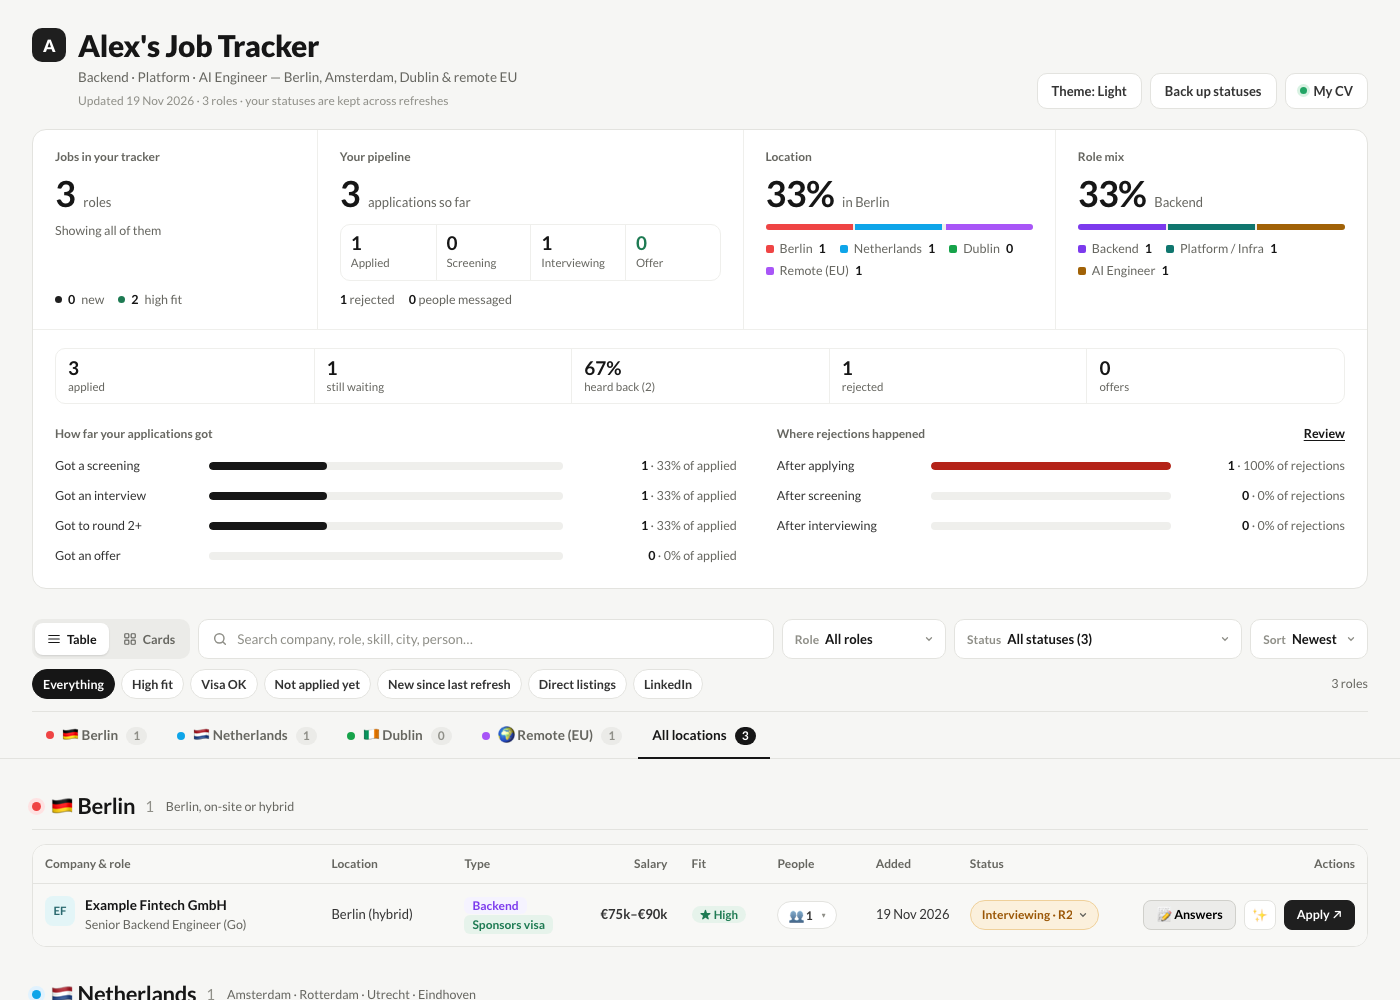
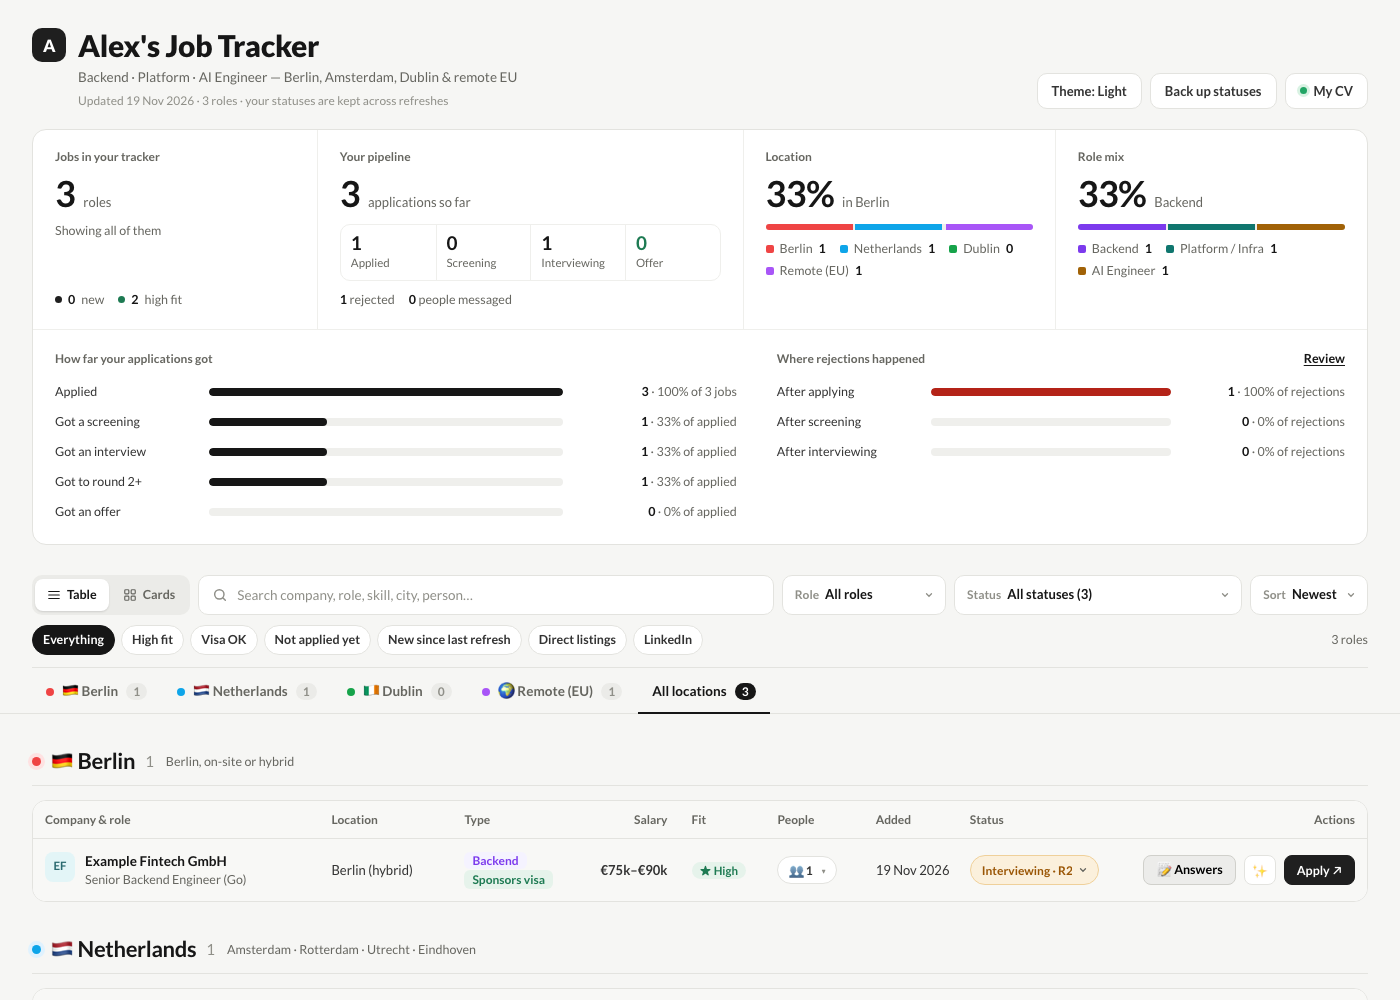
Outcomes: drop the summary strip, add Applied as a share of all jobs

diff --git a/examples/Example_Job_Tracker.html b/examples/Example_Job_Tracker.html
@@ -653,7 +653,6 @@ html.dark .cvwrap{border-color:var(--line-strong)}
     <div class="lg" id="lgCat"></div>
   </div>
   <div class="dc dc-wide hidden" id="dcOut">
-    <div class="oc-sum" id="ocSum"></div>
     <div>
       <div class="oc-h"><span class="dc-k">How far your applications got</span></div>
       <div class="oc-rows" id="ocFunnel"></div>
@@ -2032,11 +2031,9 @@ function render(){
 }
 function updateOutcomes(){
   var box = document.getElementById('dcOut'); if(!box) return;
-  var reach = [0, 0, 0, 0], rej = {Applied:0, Screening:0, Interviewing:0, Offer:0}, unk = 0, rejTot = 0, r2 = 0, rejR = {}, waiting = 0, heard = 0;
+  var reach = [0, 0, 0, 0], rej = {Applied:0, Screening:0, Interviewing:0, Offer:0}, unk = 0, rejTot = 0, r2 = 0, rejR = {};
   JOBS.forEach(function(j){
     var st = getStatus(j), n = furthestN(j), mr = maxRound(j);
-    if(st === 'Applied') waiting++;
-    if(n >= 2 || st === 'Rejected') heard++;
     if(st === 'Rejected'){ rejTot++; if(n) rej[STAGES[n - 1]]++; else unk++; if(!n) n = 1;
       if(n === 3){ var rk = Math.max(1, mr); rejR[rk] = (rejR[rk] || 0) + 1; } }
     for(var k = 0; k < n; k++) reach[k]++;
@@ -2047,16 +2044,12 @@ function updateOutcomes(){
   function row(lab, v, of, cls){ var pc = of ? Math.round(v / of * 100) : 0;
     return '<div class="oc-r"><span>' + lab + '</span><span class="oc-bar' + (cls ? ' ' + cls : '') + '"><i style="width:' + pc + '%"></i></span><span class="oc-n"><b>' + v + '</b> · ' + pc + '%</span></div>'; }
   function pct(v, of){ return of ? Math.round(v / of * 100) + '%' : '—'; }
-  document.getElementById('ocSum').innerHTML =
-    '<div><b>' + reach[0] + '</b><span>applied</span></div>' +
-    '<div><b>' + waiting + '</b><span>still waiting</span></div>' +
-    '<div><b>' + pct(heard, reach[0]) + '</b><span>heard back (' + heard + ')</span></div>' +
-    '<div><b>' + rejTot + '</b><span>rejected</span></div>' +
-    '<div><b>' + reach[3] + '</b><span>offers</span></div>';
   // every step as a share of all applications
   function step(lab, v, of, ofLab, cls){ var pc = of ? v / of * 100 : 0;
     return '<div class="oc-r"><span>' + lab + '</span><span class="oc-bar' + (cls ? ' ' + cls : '') + '"><i style="width:' + (v ? Math.max(pc, 1.5) : 0) + '%"></i></span><span class="oc-n"><b>' + v + '</b> · ' + pct(v, of) + ' of ' + ofLab + '</span></div>'; }
+  var jobsN = JOBS.length;
   document.getElementById('ocFunnel').innerHTML =
+    step('Applied', reach[0], jobsN, jobsN + ' jobs') +
     step('Got a screening', reach[1], reach[0], 'applied') +
     step('Got an interview', reach[2], reach[0], 'applied') +
     (r2 ? step('Got to round 2+', r2, reach[0], 'applied') : '') +

diff --git a/template/tracker.html b/template/tracker.html
@@ -653,7 +653,6 @@ html.dark .cvwrap{border-color:var(--line-strong)}
     <div class="lg" id="lgCat"></div>
   </div>
   <div class="dc dc-wide hidden" id="dcOut">
-    <div class="oc-sum" id="ocSum"></div>
     <div>
       <div class="oc-h"><span class="dc-k">How far your applications got</span></div>
       <div class="oc-rows" id="ocFunnel"></div>
@@ -2027,11 +2026,9 @@ function render(){
 }
 function updateOutcomes(){
   var box = document.getElementById('dcOut'); if(!box) return;
-  var reach = [0, 0, 0, 0], rej = {Applied:0, Screening:0, Interviewing:0, Offer:0}, unk = 0, rejTot = 0, r2 = 0, rejR = {}, waiting = 0, heard = 0;
+  var reach = [0, 0, 0, 0], rej = {Applied:0, Screening:0, Interviewing:0, Offer:0}, unk = 0, rejTot = 0, r2 = 0, rejR = {};
   JOBS.forEach(function(j){
     var st = getStatus(j), n = furthestN(j), mr = maxRound(j);
-    if(st === 'Applied') waiting++;
-    if(n >= 2 || st === 'Rejected') heard++;
     if(st === 'Rejected'){ rejTot++; if(n) rej[STAGES[n - 1]]++; else unk++; if(!n) n = 1;
       if(n === 3){ var rk = Math.max(1, mr); rejR[rk] = (rejR[rk] || 0) + 1; } }
     for(var k = 0; k < n; k++) reach[k]++;
@@ -2042,16 +2039,12 @@ function updateOutcomes(){
   function row(lab, v, of, cls){ var pc = of ? Math.round(v / of * 100) : 0;
     return '<div class="oc-r"><span>' + lab + '</span><span class="oc-bar' + (cls ? ' ' + cls : '') + '"><i style="width:' + pc + '%"></i></span><span class="oc-n"><b>' + v + '</b> · ' + pc + '%</span></div>'; }
   function pct(v, of){ return of ? Math.round(v / of * 100) + '%' : '—'; }
-  document.getElementById('ocSum').innerHTML =
-    '<div><b>' + reach[0] + '</b><span>applied</span></div>' +
-    '<div><b>' + waiting + '</b><span>still waiting</span></div>' +
-    '<div><b>' + pct(heard, reach[0]) + '</b><span>heard back (' + heard + ')</span></div>' +
-    '<div><b>' + rejTot + '</b><span>rejected</span></div>' +
-    '<div><b>' + reach[3] + '</b><span>offers</span></div>';
   // every step as a share of all applications
   function step(lab, v, of, ofLab, cls){ var pc = of ? v / of * 100 : 0;
     return '<div class="oc-r"><span>' + lab + '</span><span class="oc-bar' + (cls ? ' ' + cls : '') + '"><i style="width:' + (v ? Math.max(pc, 1.5) : 0) + '%"></i></span><span class="oc-n"><b>' + v + '</b> · ' + pct(v, of) + ' of ' + ofLab + '</span></div>'; }
+  var jobsN = JOBS.length;
   document.getElementById('ocFunnel').innerHTML =
+    step('Applied', reach[0], jobsN, jobsN + ' jobs') +
     step('Got a screening', reach[1], reach[0], 'applied') +
     step('Got an interview', reach[2], reach[0], 'applied') +
     (r2 ? step('Got to round 2+', r2, reach[0], 'applied') : '') +

diff --git a/docs/tracker-design.md b/docs/tracker-design.md
@@ -81,10 +81,9 @@ to the user.
 - **Review rejections** dialog (from the dashboard): every rejected job with a three-way switch
   (Applied / Screened / Interviewed) that sets `rejStage`, a manual correction that wins over history.
   Unrecorded ones are listed first.
-- **Dashboard outcomes row** (full width, shown once anything is applied): a summary strip across the
-  whole row (applied, still waiting, % heard back, rejected, offers), then two aligned panels that share
-  one row grid (label · bar · count): *How far your applications got* (screening, interview, round 2+,
-  offer, each as a % **of all applications**; very small non-zero bars get a minimum width so they stay
+- **Dashboard outcomes row** (full width, shown once anything is applied): two aligned panels that share one
+  row grid (label · bar · count): *How far your applications got* (applied, as a % of every job in the
+  tracker; then screening, interview, round 2+ and offer, each as a % **of all applications**; very small non-zero bars get a minimum width so they stay
   visible) and *Where rejections happened* (after applying / screening / interviewing, plus not recorded,
   as % of rejections), with *Fill in N missing* / *Review* opening the dialog.
 - **Interview rounds.** The status menu lists *Interviewing · R1* … *R5* (stored as status
